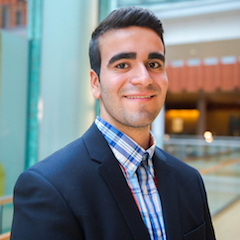
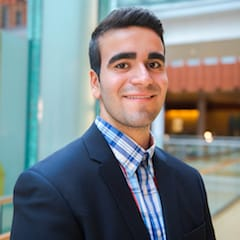
image optimizations

diff --git a/index.html b/index.html
@@ -15,7 +15,7 @@
     <meta name="twitter:title" content="Jad Chaar">
     <meta name="twitter:description" content="Jad Chaar is a passionate technologist and aspiring entrepreneur from Ann Arbor, Michigan.">
 
-    <meta property="og:url" content="http://jadchaar.me" />
+    <meta property="og:url" content="https://jadchaar.me" />
     <meta property="og:type" content="website" />
     <meta property="og:title" content="Jad Chaar" />
     <meta property="og:description" content="Jad Chaar is a passionate technologist and aspiring entrepreneur from Ann Arbor, Michigan." />
